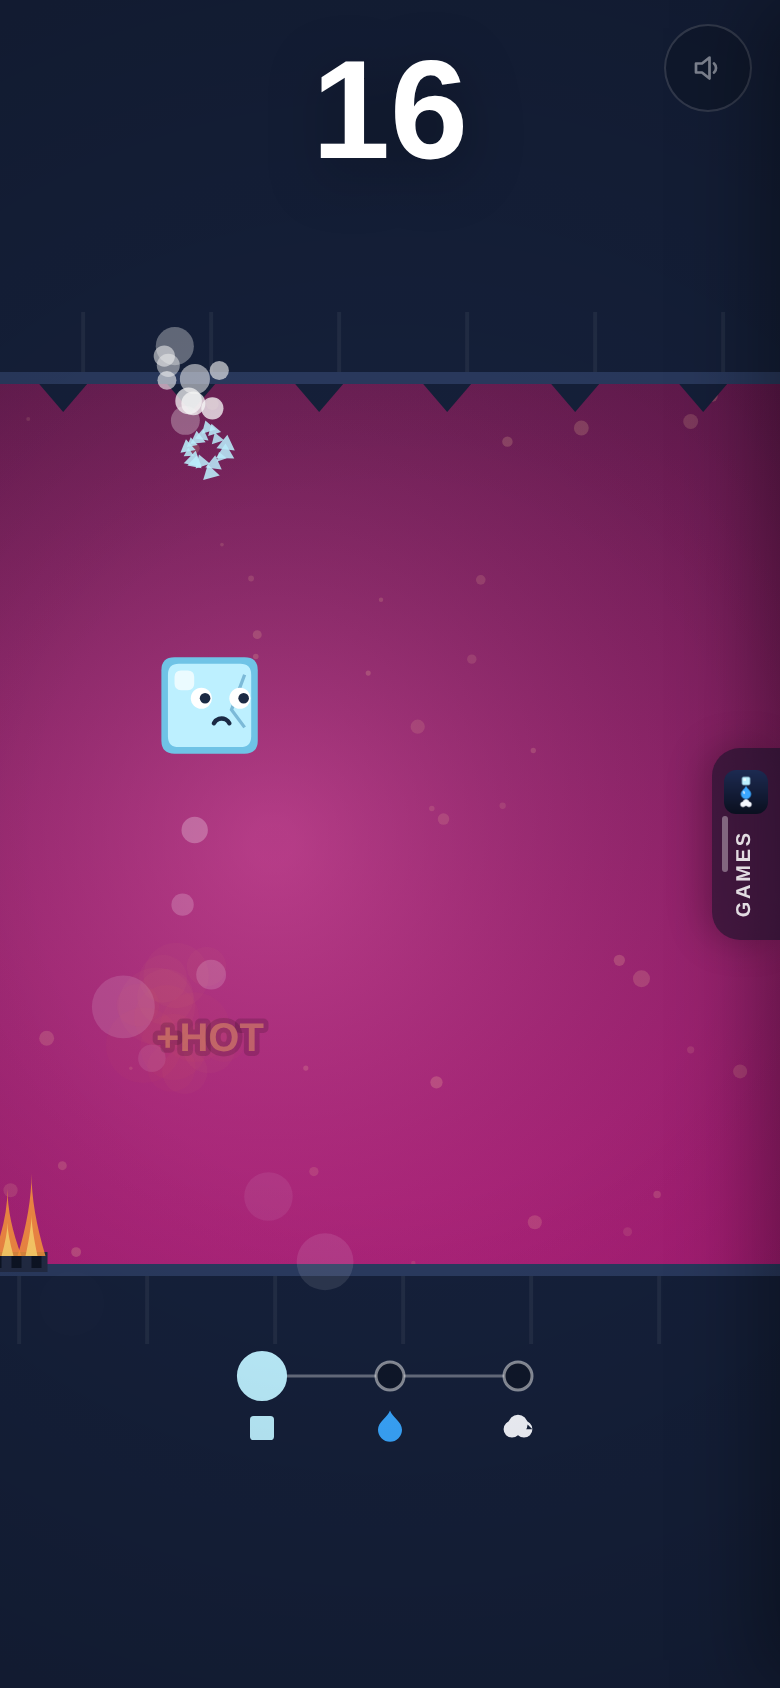
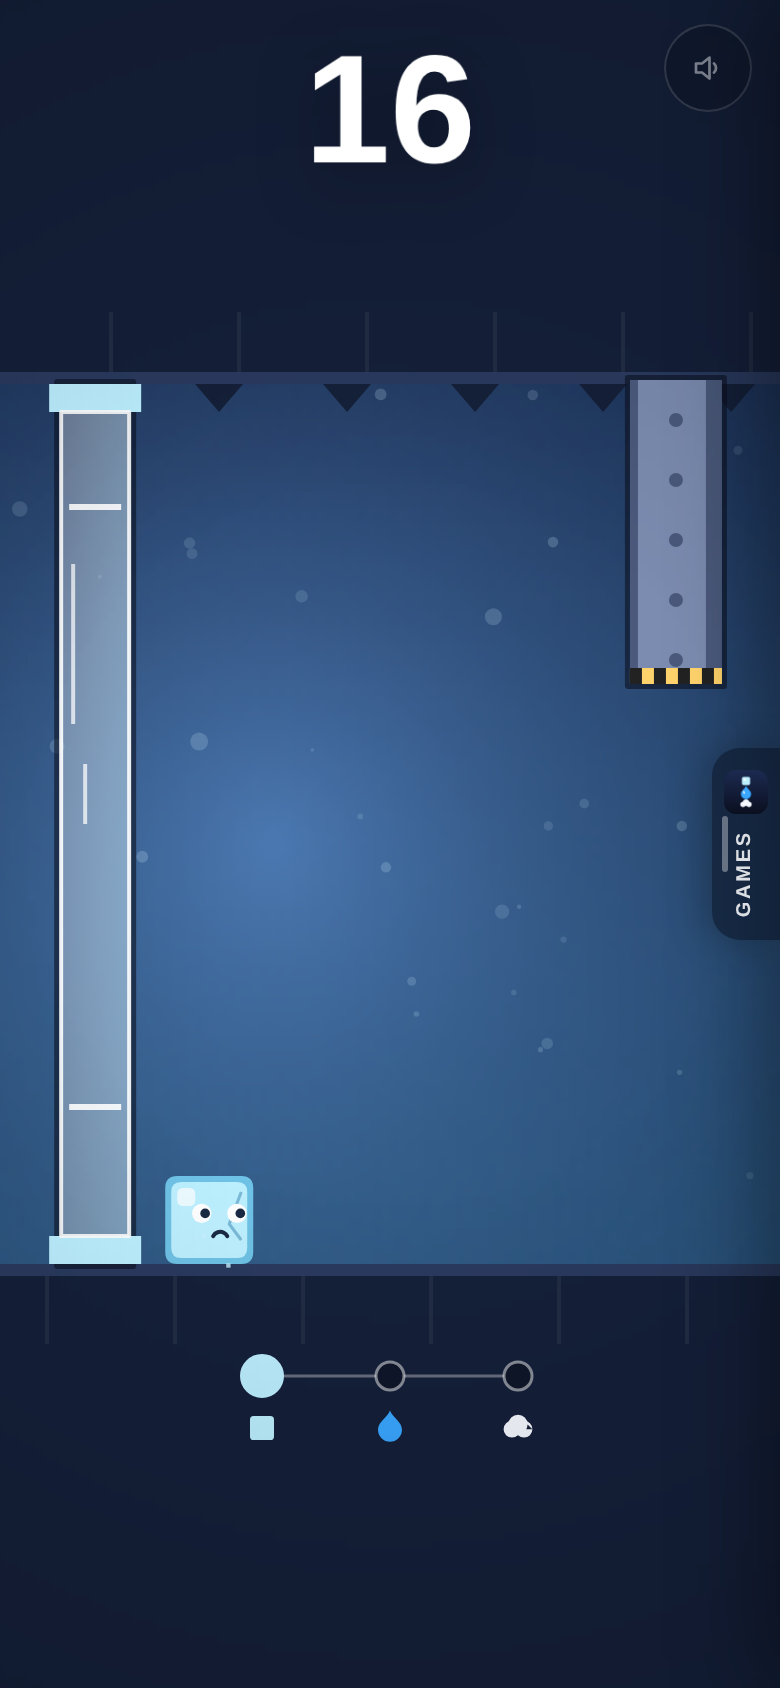
MELT: fair first run, buffered double taps, screen-independent courses, readable obstacles, faster frames
The first two obstacles are beams (water passes untouched); a tap inside the
cooldown is buffered instead of dropped (cooldown 60 ms); course generation runs
on an obstacle counter from a fixed world position, so a seed builds the same
course on a phone and a tablet. Lane colours are capped; every obstacle gets a
dark outline and brighter cores (spikes, geyser tongue, frosted glass with
glints, railed pipes). Sky is drawn from small cached canvases per 2.5 degrees,
the vignette once per resize, on an opaque, pixel-budgeted canvas. Store copy
now matches the controls (tap to change state).

Claude-Session: https://claude.ai/code/session_01GN1ViAcJT7YnuN6Pfh4UL5

diff --git a/melt/src/render/renderer.js b/melt/src/render/renderer.js
@@ -5,7 +5,7 @@
  */
 import { CONFIG } from '../core/config.js';
 import { OBSTACLES, PHASE } from '../core/melt.js';
-import { PHASE_COLORS, OBSTACLE_COLORS, ROCK, skyForTemp, lerp } from '../core/palette.js';
+import { PHASE_COLORS, OBSTACLE_COLORS, ROCK, OUTLINE, skyForTemp, lerp } from '../core/palette.js';
 
 const TAU = Math.PI * 2;
 
@@ -17,7 +17,8 @@ function mulberry32(seed) {
 export class Renderer {
   constructor(canvas) {
     this.canvas = canvas;
-    this.ctx = canvas.getContext('2d');
+    this.ctx = canvas.getContext('2d', { alpha: false });   // opaque backdrop every frame
+    this.skyCache = new Map();
     this.w = 0; this.h = 0; this.dpr = 1;
     this.scale = 1; this.ox = 0; this.oy = 0;
     this.motes = this.makeMotes();
@@ -25,8 +26,10 @@ export class Renderer {
   }
 
   resize() {
-    this.dpr = Math.min(window.devicePixelRatio || 1, 2);
+    // pixel budget: never more than ~1.4 Mpx of backing store
+    this.dpr = Math.min(window.devicePixelRatio || 1, 2, Math.sqrt(1.4e6 / Math.max(1, window.innerWidth * window.innerHeight)));
     this.w = window.innerWidth; this.h = window.innerHeight;
+    this.skyCache = new Map(); this.vignette = null;
     this.canvas.width = Math.round(this.w * this.dpr);
     this.canvas.height = Math.round(this.h * this.dpr);
     this.canvas.style.width = `${this.w}px`;
@@ -63,17 +66,25 @@ export class Renderer {
     return m;
   }
 
+  /** Sky for a temperature, cached as a small offscreen canvas per 2.5° step and stretched to the screen. */
+  skyFor(temp) {
+    const key = Math.round(temp / 2.5);
+    let cv = this.skyCache.get(key);
+    if (!cv) {
+      const sky = skyForTemp(key * 2.5), W = 96, H = 192; cv = document.createElement('canvas'); cv.width = W; cv.height = H;
+      const c = cv.getContext('2d'), g = c.createLinearGradient(0, 0, 0, H);
+      g.addColorStop(0, sky.top); g.addColorStop(1, sky.bottom); c.fillStyle = g; c.fillRect(0, 0, W, H);
+      const rg = c.createRadialGradient(W * 0.35, H * 0.5, 1, W * 0.35, H * 0.5, Math.max(W, H) * 0.6);
+      rg.addColorStop(0, sky.glow); rg.addColorStop(1, 'rgba(0,0,0,0)'); c.fillStyle = rg; c.fillRect(0, 0, W, H);
+      if (this.skyCache.size > 48) this.skyCache.clear();
+      this.skyCache.set(key, cv);
+    }
+    return cv;
+  }
   drawSky(temp) {
     const { ctx, w, h } = this;
     ctx.setTransform(this.dpr, 0, 0, this.dpr, 0, 0);
-    const sky = skyForTemp(temp);
-    const g = ctx.createLinearGradient(0, 0, 0, h);
-    g.addColorStop(0, sky.top); g.addColorStop(1, sky.bottom);
-    ctx.fillStyle = g; ctx.fillRect(0, 0, w, h);
-    // soft glow behind the play lane
-    const rg = ctx.createRadialGradient(w * 0.35, h * 0.5, 10, w * 0.35, h * 0.5, Math.max(w, h) * 0.6);
-    rg.addColorStop(0, sky.glow); rg.addColorStop(1, 'rgba(0,0,0,0)');
-    ctx.fillStyle = rg; ctx.fillRect(0, 0, w, h);
+    ctx.imageSmoothingEnabled = true; ctx.drawImage(this.skyFor(temp), 0, 0, w, h);
   }
 
   drawMotes(distance, time, temp) {
@@ -129,15 +140,17 @@ export class Renderer {
         const n = 3, bw = o.w / n, hgt = 64;
         for (let i = 0; i < n; i++) {
           const x0 = o.x + i * bw;
-          ctx.fillStyle = c.dark;
-          ctx.beginPath(); ctx.moveTo(x0, floor); ctx.lineTo(x0 + bw / 2, floor - hgt); ctx.lineTo(x0 + bw, floor); ctx.closePath(); ctx.fill();
-          ctx.fillStyle = c.fill;
-          ctx.beginPath(); ctx.moveTo(x0 + 3, floor); ctx.lineTo(x0 + bw / 2, floor - hgt + 6); ctx.lineTo(x0 + bw / 2 + 2, floor); ctx.closePath(); ctx.fill();
+          ctx.beginPath(); ctx.moveTo(x0, floor); ctx.lineTo(x0 + bw / 2, floor - hgt); ctx.lineTo(x0 + bw, floor); ctx.closePath();
+          ctx.lineJoin = 'round'; ctx.lineWidth = 3; ctx.strokeStyle = OUTLINE; ctx.stroke();
+          ctx.fillStyle = c.fill; ctx.fill();
+          ctx.fillStyle = c.dark; ctx.beginPath(); ctx.moveTo(x0 + bw / 2 + 1, floor - hgt + 4); ctx.lineTo(x0 + bw - 2, floor); ctx.lineTo(x0 + bw / 2 + 2, floor); ctx.closePath(); ctx.globalAlpha = 0.55; ctx.fill(); ctx.globalAlpha = 1;
+          ctx.fillStyle = c.core; ctx.beginPath(); ctx.moveTo(x0 + 4, floor); ctx.lineTo(x0 + bw / 2, floor - hgt + 8); ctx.lineTo(x0 + bw / 2 - 1, floor); ctx.closePath(); ctx.fill();
         }
         break;
       }
       case 'beam': {
         const hgt = 150;
+        ctx.lineWidth = 3; ctx.strokeStyle = OUTLINE; ctx.strokeRect(o.x - 1, top - 3, o.w + 2, hgt + 4);
         ctx.fillStyle = c.dark; ctx.fillRect(o.x, top - 2, o.w, hgt + 2);
         ctx.fillStyle = c.fill; ctx.fillRect(o.x + 4, top - 2, o.w - 12, hgt - 6);
         ctx.fillStyle = c.dark;
@@ -149,20 +162,25 @@ export class Renderer {
         break;
       }
       case 'glass': {
-        ctx.fillStyle = c.frame; ctx.fillRect(o.x, top, o.w, 10); ctx.fillRect(o.x, floor - 10, o.w, 10);
-        ctx.fillStyle = c.fill; ctx.fillRect(o.x + 6, top + 10, o.w - 12, floor - top - 20);
+        ctx.lineWidth = 3; ctx.strokeStyle = OUTLINE; ctx.strokeRect(o.x + 4, top - 1, o.w - 8, floor - top + 2);
+        ctx.fillStyle = c.frame; ctx.fillRect(o.x, top, o.w, 14); ctx.fillRect(o.x, floor - 14, o.w, 14);
+        const gl = ctx.createLinearGradient(o.x + 6, 0, o.x + o.w - 6, 0); gl.addColorStop(0, 'rgba(255,255,255,0.32)'); gl.addColorStop(1, c.fill);
+        ctx.fillStyle = gl; ctx.fillRect(o.x + 6, top + 14, o.w - 12, floor - top - 28);
         ctx.strokeStyle = c.edge; ctx.lineWidth = 2;
-        ctx.strokeRect(o.x + 6, top + 10, o.w - 12, floor - top - 20);
-        // glints
-        ctx.globalAlpha = 0.7;
-        ctx.beginPath(); ctx.moveTo(o.x + 12, top + 40); ctx.lineTo(o.x + 12, top + 120); ctx.stroke();
-        ctx.beginPath(); ctx.moveTo(o.x + 18, top + 140); ctx.lineTo(o.x + 18, top + 170); ctx.stroke();
+        ctx.strokeRect(o.x + 6, top + 14, o.w - 12, floor - top - 28);
+        // glints: two bright horizontal bars and two vertical streaks
+        ctx.fillStyle = 'rgba(255,255,255,0.9)'; ctx.fillRect(o.x + 10, top + 60, o.w - 20, 3); ctx.fillRect(o.x + 10, floor - 80, o.w - 20, 3);
+        ctx.globalAlpha = 0.8;
+        ctx.beginPath(); ctx.moveTo(o.x + 12, top + 90); ctx.lineTo(o.x + 12, top + 170); ctx.stroke();
+        ctx.beginPath(); ctx.moveTo(o.x + 18, top + 190); ctx.lineTo(o.x + 18, top + 220); ctx.stroke();
         ctx.globalAlpha = 1;
         break;
       }
       case 'pipe': {
+        ctx.lineWidth = 3; ctx.strokeStyle = OUTLINE; ctx.strokeRect(o.x - 1, top - 1, o.w + 2, floor - top + 2);
         ctx.fillStyle = c.fill; ctx.fillRect(o.x, top, o.w, floor - top);
         ctx.fillStyle = c.dark; ctx.fillRect(o.x + 6, top + 8, o.w - 12, floor - top - 70);
+        ctx.fillStyle = c.rail; ctx.fillRect(o.x + 2, top, 2, floor - top); ctx.fillRect(o.x + o.w - 4, top, 2, floor - top);
         // round opening at floor level
         const cx = o.x + o.w / 2, cy = floor - 30, r = 28;
         ctx.fillStyle = c.ring; ctx.beginPath(); ctx.arc(cx, cy, r, 0, TAU); ctx.fill();
@@ -171,6 +189,8 @@ export class Renderer {
         break;
       }
       case 'geyser': {
+        const base = ctx.createRadialGradient(o.x + o.w / 2, floor, 2, o.x + o.w / 2, floor, o.w * 0.7); base.addColorStop(0, 'rgba(40,10,0,0.5)'); base.addColorStop(1, 'rgba(40,10,0,0)');
+        ctx.fillStyle = base; ctx.fillRect(o.x - 12, floor - 40, o.w + 24, 44);
         ctx.fillStyle = '#222b44'; ctx.fillRect(o.x, floor - 6, o.w, 10);
         ctx.fillStyle = '#0d1424';
         for (let x = o.x + 6; x < o.x + o.w - 6; x += 10) ctx.fillRect(x, floor - 4, 5, 6);
@@ -182,6 +202,8 @@ export class Renderer {
           ctx.beginPath(); ctx.moveTo(fx - 7, floor - 4); ctx.quadraticCurveTo(fx, floor - fh * 0.6, fx, floor - fh); ctx.quadraticCurveTo(fx, floor - fh * 0.6, fx + 7, floor - 4); ctx.closePath(); ctx.fill();
           ctx.fillStyle = c.dark; ctx.globalAlpha = 0.9;
           ctx.beginPath(); ctx.moveTo(fx - 3, floor - 4); ctx.quadraticCurveTo(fx, floor - fh * 0.4, fx, floor - fh * 0.55); ctx.quadraticCurveTo(fx, floor - fh * 0.4, fx + 3, floor - 4); ctx.closePath(); ctx.fill();
+          ctx.fillStyle = c.core; ctx.globalAlpha = 0.9;   // white-hot inner tongue: reads on any sky
+          ctx.beginPath(); ctx.moveTo(fx - 1.5, floor - 4); ctx.quadraticCurveTo(fx, floor - fh * 0.3, fx, floor - fh * 0.45); ctx.quadraticCurveTo(fx, floor - fh * 0.3, fx + 1.5, floor - 4); ctx.closePath(); ctx.fill();
         }
         ctx.globalAlpha = 1;
         break;
@@ -358,9 +380,14 @@ export class Renderer {
 
   drawVignette() {
     const { ctx, w, h } = this;
+    if (!this.vignette) {   // painted once per resize at a quarter resolution, stretched (it is a soft gradient)
+      const cv = document.createElement('canvas'); cv.width = Math.max(1, Math.round(w / 4)); cv.height = Math.max(1, Math.round(h / 4));
+      const c = cv.getContext('2d'), W = cv.width, H = cv.height;
+      const g = c.createRadialGradient(W / 2, H / 2, Math.min(W, H) * 0.45, W / 2, H / 2, Math.max(W, H) * 0.85);
+      g.addColorStop(0, 'rgba(0,0,0,0)'); g.addColorStop(1, 'rgba(0,0,0,0.3)'); c.fillStyle = g; c.fillRect(0, 0, W, H);
+      this.vignette = cv;
+    }
     ctx.setTransform(this.dpr, 0, 0, this.dpr, 0, 0);
-    const g = ctx.createRadialGradient(w / 2, h / 2, Math.min(w, h) * 0.45, w / 2, h / 2, Math.max(w, h) * 0.85);
-    g.addColorStop(0, 'rgba(0,0,0,0)'); g.addColorStop(1, 'rgba(0,0,0,0.3)');
-    ctx.fillStyle = g; ctx.fillRect(0, 0, w, h);
+    ctx.drawImage(this.vignette, 0, 0, w, h);
   }
 }

diff --git a/melt/src/core/melt.js b/melt/src/core/melt.js
@@ -57,17 +57,19 @@ export class MeltGame {
     this.altitude = 0;
     this.speed = c.BASE_SPEED;
     this.distance = 0; this.score = 0; this.closeCalls = 0; this.time = 0;
-    this.lastPhaseChange = -10; this.lastTap = -10;
+    this.lastPhaseChange = -10; this.lastTap = -10; this.queuedTap = false; this.spawned = 0;
     this.over = false; this.deathPhase = null; this.milestoneIdx = 0; this.nextId = 1;
     this.obstacles = []; this.lastObstacle = null; this.prevObstacleType = null; this.pendingType = null;
     this.spawnX = this.spawnX || c.SPAWN_X;
-    this.nextSpawnX = this.spawnX + 80;
+    this.nextSpawnX = c.SPAWN_X + 80;           // fixed world position: the course never depends on screen width
     this.seen = {};
     this.fillAhead();
     this.emit('reset', this);
   }
 
-  difficulty() { const c = this.config; const t = Math.min(1, this.score / c.DIFFICULTY_RAMP); return c.DIFFICULTY_START + (c.DIFFICULTY_END - c.DIFFICULTY_START) * t; }
+  /** Course generation runs on a counter of obstacles placed (not live score), so a seed builds the same course on any screen. */
+  get genScore() { return Math.max(0, this.spawned - 2); }
+  difficulty() { const c = this.config; const t = Math.min(1, this.genScore / c.DIFFICULTY_RAMP); return c.DIFFICULTY_START + (c.DIFFICULTY_END - c.DIFFICULTY_START) * t; }
   speedForScore(score) { const c = this.config; return Math.min(c.MAX_SPEED, c.BASE_SPEED + score * c.SPEED_PER_PASS); }
 
   setPhase(p) {
@@ -79,13 +81,14 @@ export class MeltGame {
   /** The one input. Returns the new phase, or null when debounced / over. */
   tap() {
     if (this.over) return null;
-    if (this.time - this.lastTap < this.config.TAP_COOLDOWN) return null;
+    // a tap inside the cooldown is buffered (applied a moment later), never lost: fast double taps are routine
+    if (this.time - this.lastTap < this.config.TAP_COOLDOWN) { this.queuedTap = true; return null; }
     this.lastTap = this.time;
     this.setPhase(nextPhase(this.phase));
     return this.phase;
   }
 
-  unlockedTypes(kind) { return Object.keys(OBSTACLES).filter(t => OBSTACLES[t].kind === kind && this.score >= this.config.UNLOCK[t]); }
+  unlockedTypes(kind) { return Object.keys(OBSTACLES).filter(t => OBSTACLES[t].kind === kind && this.genScore >= this.config.UNLOCK[t]); }
 
   /** Time budget (seconds) for `n` taps. */
   timeBudgetForTaps(n) { const c = this.config; const base = n === 0 ? c.TIME_SAME : n === 1 ? c.TIME_ONE : c.TIME_TWO; return base * this.difficulty(); }
@@ -99,10 +102,12 @@ export class MeltGame {
     const from = OBSTACLES[o.type].needs, to = OBSTACLES[nextType].needs;
     let worst = 0;
     for (const p of from) { let best = 2; for (const q of to) best = Math.min(best, tapsBetween(p, q)); worst = Math.max(worst, best); }
-    return this.timeBudgetForTaps(worst) * this.speedForScore(this.score);
+    return this.timeBudgetForTaps(worst) * this.speedForScore(this.genScore);
   }
 
   chooseNext(o) {
+    // the first two obstacles of a run are beams: water passes them with no tap, so nobody dies in the first seconds
+    if (this.spawned < 2 && (this.config.UNLOCK.beam ?? 0) === 0) return 'beam';
     const types = this.unlockedTypes('obstacle');
     const pool = types.length > 1 && o && o.type === this.prevObstacleType ? types.filter(t => t !== o.type) : types;
     return pool[Math.floor(this.random() * pool.length)];
@@ -111,6 +116,7 @@ export class MeltGame {
   spawn(type, x) {
     const c = this.config, def = OBSTACLES[type];
     this.seen[type] = (this.seen[type] || 0) + 1;
+    if (def.kind !== 'hazard') this.spawned++;
     const o = { id: this.nextId++, type, kind: def.kind, x, w: def.kind === 'hazard' ? c.HAZARD_W : c.OBSTACLE_W, passed: false, applied: false, hint: this.seen[type] <= 3 };
     this.obstacles.push(o); this.emit('spawn', o); return o;
   }
@@ -119,12 +125,12 @@ export class MeltGame {
     const c = this.config;
     while (this.nextSpawnX <= this.spawnX + this.speed * 0.5 + 60) {
       const type = this.pendingType || this.chooseNext(null);
-      const x = Math.max(this.nextSpawnX, this.spawnX);
+      const x = this.nextSpawnX;
       const o = this.spawn(type, x);
       this.prevObstacleType = this.lastObstacle ? this.lastObstacle.type : null;
       this.lastObstacle = o;
       this.pendingType = this.chooseNext(o);
-      const speed = this.speedForScore(this.score);
+      const speed = this.speedForScore(this.genScore);
       let gap = this.gapAfter(o, this.pendingType);
       const hazards = this.unlockedTypes('hazard');
       if (hazards.length && gap / speed >= c.HAZARD_MIN_TIME && this.random() < c.HAZARD_CHANCE) {
@@ -140,6 +146,7 @@ export class MeltGame {
     if (this.over) return;
     const c = this.config;
     this.time += dt;
+    if (this.queuedTap && this.time - this.lastTap >= c.TAP_COOLDOWN) { this.queuedTap = false; this.tap(); }
     const targetAlt = this.phase === PHASE.STEAM ? 1 : 0;
     const step = c.FLOAT_SPEED * dt;
     if (Math.abs(targetAlt - this.altitude) <= step) this.altitude = targetAlt; else this.altitude += Math.sign(targetAlt - this.altitude) * step;

diff --git a/melt/tests/melt.test.js b/melt/tests/melt.test.js
@@ -22,10 +22,26 @@ test('one tap cycles ice → water → steam → ice', () => {
   tapTo(g, 'steam'); tapTo(g, 'ice');
   assert.deepEqual(seen, ['steam', 'ice']);
 });
-test('taps are debounced', () => {
+test('a fast double tap is buffered, never lost', () => {
   const g = new MeltGame({ random: rng(3) }); placeOnly(g, 'beam', 5000);
-  assert.equal(g.tap(), 'steam'); assert.equal(g.tap(), null, 'second tap within the cooldown is ignored');
-  g.update(CONFIG.TAP_COOLDOWN + 0.01); assert.equal(g.tap(), 'ice');
+  assert.equal(g.tap(), 'steam'); assert.equal(g.tap(), null, 'second tap inside the cooldown is deferred');
+  g.update(CONFIG.TAP_COOLDOWN + 0.01); assert.equal(g.phase, 'ice', 'the deferred tap was applied');
+  g.update(CONFIG.TAP_COOLDOWN + 0.01); assert.equal(g.tap(), 'water');
+});
+test('the first two obstacles are beams (no tap needed), and no spikes arrive in the first 4 s', () => {
+  for (let seed = 1; seed <= 30; seed++) {
+    const g = new MeltGame({ random: rng(seed) });
+    const types = g.obstacles.filter(o => o.kind !== 'hazard').map(o => o.type);
+    g.on('spawn', (o) => { if (o.kind !== 'hazard') types.push(o.type); });
+    let died = false; g.on('die', () => { died = true; });
+    for (let t = 0; t < 4; t += 1 / 60) g.update(1 / 60);
+    assert.deepEqual(types.slice(0, 2), ['beam', 'beam'], `seed ${seed}`);
+    assert.ok(!died, `seed ${seed}: died in the first 4 s without tapping`);
+  }
+});
+test('a seed builds the same course on a phone and a tablet', () => {
+  const seq = (w) => { const g = new MeltGame({ random: rng(11) }); g.setViewWidth(w); g.reset(); const out = []; for (let t = 0; t < 40 && out.length < 25; t += 1 / 60) { for (const o of g.obstacles) if (!out.some(e => e.id === o.id)) out.push({ id: o.id, type: o.type }); g.update(1 / 60); if (g.over) { g.over = false; } } return out.slice(0, 25).map(o => o.type).join(','); };
+  assert.equal(seq(390), seq(1024));
 });
 test('steam floats up; anything else sinks', () => {
   const g = new MeltGame({ random: rng(4) }); placeOnly(g, 'beam', 5000);
@@ -46,7 +62,7 @@ test('hazards shove one step and never kill', () => {
   run(g, 1.5); assert.equal(hits, 1); assert.equal(g.phase, 'steam'); assert.ok(!g.over);
 });
 test('gaps are budgeted for the worst legitimate phase leaving an obstacle', () => {
-  const g = new MeltGame({ random: rng(7) }); g.score = 100;
+  const g = new MeltGame({ random: rng(7) }); g.score = 100; g.spawned = 102;
   const speed = g.speedForScore(100), d = CONFIG.DIFFICULTY_END;
   // leaving a beam as ice, spikes need two taps; leaving a beam as water, one tap → budget two
   assert.ok(Math.abs(g.gapAfter({ type: 'beam' }, 'spikes') - CONFIG.TIME_TWO * d * speed) < 1e-6);
@@ -59,7 +75,7 @@ test('gaps are budgeted for the worst legitimate phase leaving an obstacle', () 
 });
 test('types unlock with score; speed ramps and caps', () => {
   const g = new MeltGame({ random: rng(8) });
-  assert.deepEqual(g.unlockedTypes('obstacle').sort(), ['beam', 'spikes']); g.score = 30;
+  g.spawned = 0; assert.deepEqual(g.unlockedTypes('obstacle').sort(), ['beam', 'spikes']); g.score = 30; g.spawned = 32;
   assert.deepEqual(g.unlockedTypes('hazard').sort(), ['geyser', 'vent']);
   assert.equal(g.speedForScore(0), CONFIG.BASE_SPEED); assert.equal(g.speedForScore(1e6), CONFIG.MAX_SPEED);
 });

diff --git a/melt/src/core/palette.js b/melt/src/core/palette.js
@@ -27,7 +27,8 @@ export function skyForTemp(temp) {
   // cold: deep blue → teal; hot: deep maroon → ember. The hue travels the
   // long way round (teal → violet → magenta → red → orange) like a thermal map.
   const topH = lerp(214, 352, t), topS = lerp(55, 48, t), topL = lerp(20, 16, t);
-  const botH = lerp(192, 384, t), botS = lerp(62, 85, t), botL = lerp(42, 50, t);
+  // the lane stays calm (capped saturation/lightness) so every obstacle reads against it at any temperature
+  const botH = lerp(192, 384, t), botS = lerp(50, 62, t), botL = lerp(38, 44, t);
   return {
     top: hsl(topH, topS, topL),
     bottom: hsl(botH, botS, botL),
@@ -37,12 +38,13 @@ export function skyForTemp(temp) {
 
 /** Obstacle colours. */
 export const OBSTACLE_COLORS = Object.freeze({
-  spikes: { fill: '#ff5e6c', dark: '#b33446', hint: PHASE_COLORS.steam.text },
+  spikes: { fill: '#ff8a94', core: '#ffd1d6', dark: '#5a1424', hint: PHASE_COLORS.steam.text },
   beam:   { fill: '#7b8cb0', dark: '#4b5a7c', hint: '#ffd36b' },
-  glass:  { fill: 'rgba(200, 240, 255, 0.28)', edge: 'rgba(255,255,255,0.85)', frame: '#8fd6f0', hint: PHASE_COLORS.ice.text },
-  pipe:   { fill: '#2b3b5c', dark: '#1a2640', ring: '#9fb0d1', hint: PHASE_COLORS.water.text },
-  geyser: { fill: '#ff9a3c', dark: '#ffd36b', hint: '#ffb36b' },
+  glass:  { fill: 'rgba(220, 245, 255, 0.45)', edge: 'rgba(255,255,255,0.9)', frame: '#bdf0ff', hint: PHASE_COLORS.ice.text },
+  pipe:   { fill: '#3b4f78', dark: '#24335a', ring: '#9fb0d1', rail: '#9fb0d1', hint: PHASE_COLORS.water.text },
+  geyser: { fill: '#ff9a3c', dark: '#ffd36b', core: '#fff3c4', hint: '#ffb36b' },
   vent:   { fill: '#dff6ff', dark: '#9fe3ff', hint: '#bdf0ff' },
 });
 
 export const ROCK = Object.freeze({ fill: '#15203a', edge: '#2a3a5f', seam: 'rgba(255,255,255,0.06)' });
+export const OUTLINE = 'rgba(11,16,32,0.6)';

diff --git a/melt/index.html b/melt/index.html
@@ -11,7 +11,7 @@
   <meta name="apple-mobile-web-app-status-bar-style" content="black-translucent" />
   <meta name="apple-mobile-web-app-title" content="MELT" />
   <meta property="og:title" content="MELT" />
-  <meta property="og:description" content="Hold to heat. Release to cool. Be the right state of matter." />
+  <meta property="og:description" content="Tap to change state: ice, water, steam. Be the right state of matter." />
   <meta property="og:type" content="website" />
   <meta property="og:image" content="art/screens/gameplay.png" />
   <link rel="manifest" href="manifest.webmanifest" />

diff --git a/melt/src/core/config.js b/melt/src/core/config.js
@@ -11,7 +11,7 @@ export const CONFIG = Object.freeze({
   PLAYER_R: 22,
 
   START_PHASE: 'water',
-  TAP_COOLDOWN: 0.08,       // seconds between accepted taps (debounce, not a mechanic)
+  TAP_COOLDOWN: 0.06,       // seconds between applied taps; a tap inside it is buffered, never dropped
 
   /* vertical motion: altitude 0 = floor, 1 = ceiling */
   FLOAT_SPEED: 5.0,

diff --git a/melt/docs/DESIGN.md b/melt/docs/DESIGN.md
@@ -59,6 +59,6 @@ Obstacle spacing is a **time budget, not a distance**, so it stays fair as speed
 ## Store copy
 
 **Title:** MELT — Ice, Water, Steam
-**Subtitle:** Hold to heat. Release to cool.
+**Subtitle:** Tap to change state: ice, water, steam.
 **Keywords:** melt, ice, steam, water, physics, runner, one tap, hyper casual, temperature, science
-**Description:** Your finger is a flame. Hold to heat your little drop into steam and float over spikes. Let go to cool into water and flow through pipes. Freeze solid to smash glass. Every obstacle needs a different state of matter, and every second counts. One finger. Three forms. How far can you run?
+**Description:** One tap changes what you are: ice, then water, then steam. Float over spikes as steam, flow through pipes as water, freeze solid to smash glass. Every obstacle needs a different state of matter, and every second counts. One finger. Three forms. How far can you run?
